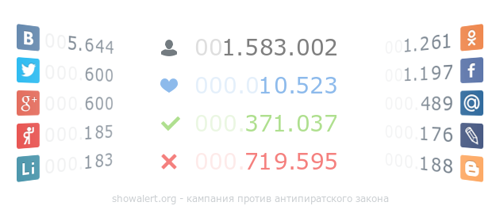
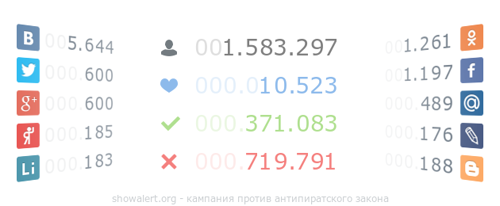
some updates

Changed region(s): [[0.57, 0.1748, 0.69, 0.2913], [0.6, 0.5534, 0.69, 0.6408], [0.57, 0.7282, 0.69, 0.8155]]

diff --git a/votes.js b/votes.js
@@ -1,1 +1,1 @@
-window.lk.votes(23070)
+window.lk.votes(23091)
